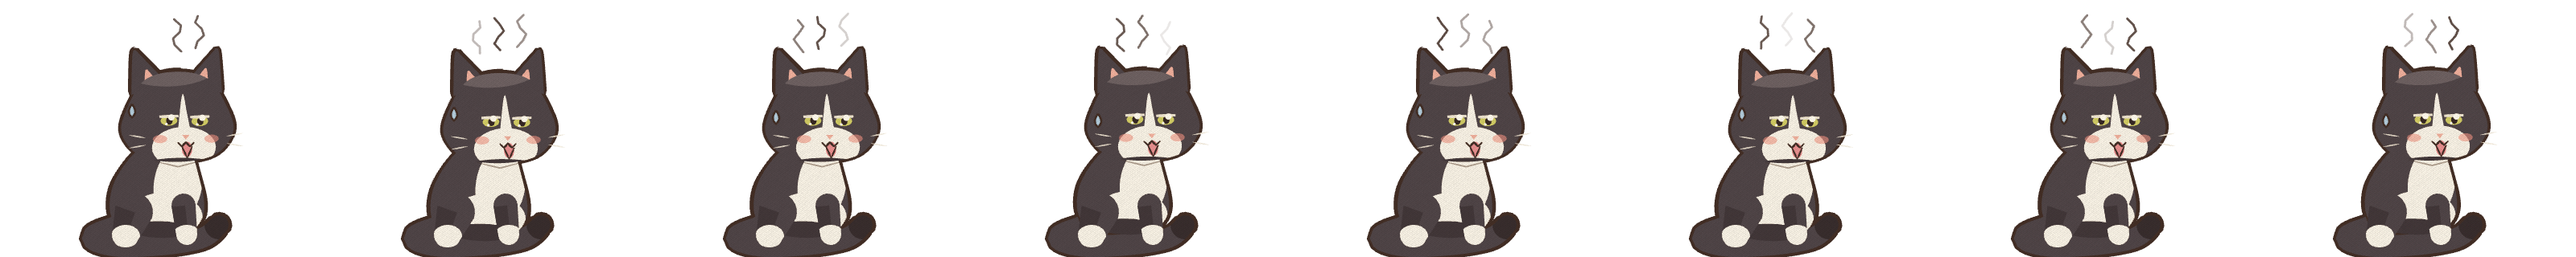
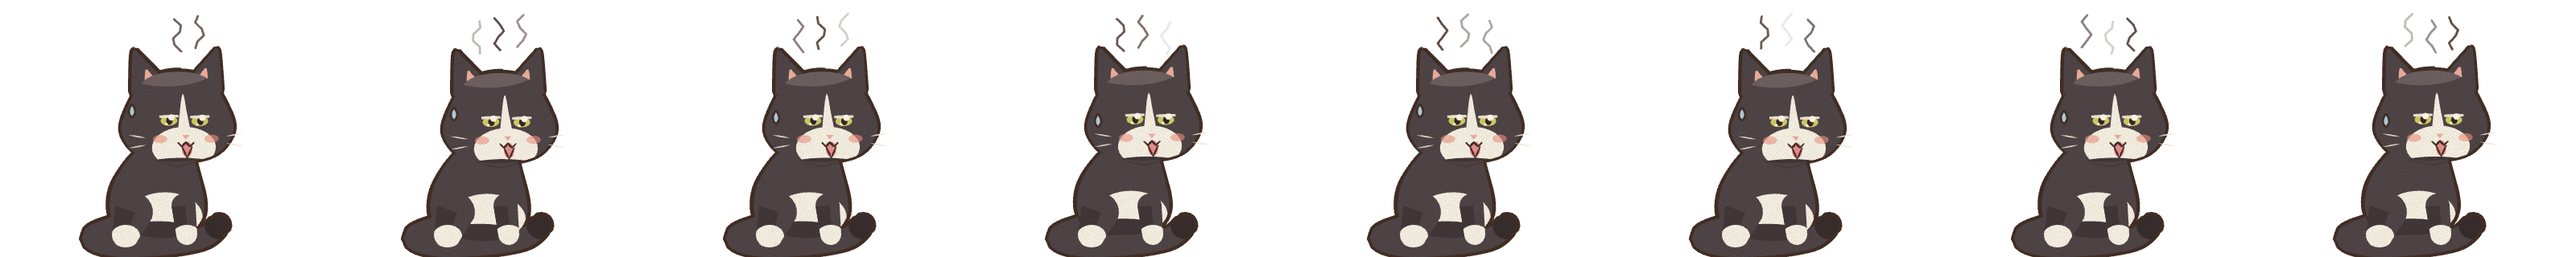
Maestra's white matches Maestro's cream; the laser game plays every time, for both
The bib on her chest is gone. The laser strip now reaches the screen's bottom edge (the
Dock counts), counts the wiggle from the moment the cursor enters it, wakes a napping
cat, brings a far one running, and lets them pounce again and again while it wiggles.
Maestra no longer ignores half of it.

diff --git a/guardia-app/Sources/Pet.swift b/guardia-app/Sources/Pet.swift
@@ -422,8 +422,8 @@ final class PetController {
         return true
     }
 
-    private func leap(to: CGPoint, kind: Jump, dur: Double? = nil) {
-        facing = to.x >= pos.x ? 1 : -1
+    private func leap(to: CGPoint, kind: Jump, dur: Double? = nil, face: CGFloat? = nil) {
+        facing = face ?? (to.x >= pos.x ? 1 : -1)
         let dist = Double(hypot(to.x - pos.x, to.y - pos.y))
         napping = false
         afterWalk = nil
@@ -529,7 +529,7 @@ final class PetController {
             if lift == 0 { liftV = 0 }
             if Date() > until && lift == 0 { set(.idle, for: 3) }
         case .stalk:
-            let m = NSEvent.mouseLocation
+            let m = cursor
             facing = m.x >= pos.x + size.width / 2 ? 1 : -1
             if Date() > until { pounceAt(m.x) }
         case .dangle:
@@ -589,7 +589,8 @@ final class PetController {
         place()
         hitTest()
         // asleep, one tick per breathing frame is enough to notice the first key or mouse move
-        schedule(state == .leap ? 1.0 / 40 : [.walk, .dangle, .fall, .swipe, .startle, .stalk].contains(state) ? 1.0 / 20 : state == .sleep ? 1.0 / 4 : 1.0 / 10)
+        // and while the cursor plays at the bottom near him, 20 Hz to follow it
+        schedule(state == .leap ? 1.0 / 40 : [.walk, .dangle, .fall, .swipe, .startle, .stalk].contains(state) || laserNear ? 1.0 / 20 : state == .sleep ? 1.0 / 4 : 1.0 / 10)
     }
 
     private func onKey() {
@@ -652,12 +653,12 @@ final class PetController {
     }
 
     private func feel(now: Double, dt: Double) {
-        let m = NSEvent.mouseLocation
+        let m = cursor
         defer { lastMouse = m }
-        // petting: the cursor stroking over him, no button down
+        // petting: the cursor stroking slowly over him, no button down (a quick wiggle is the laser)
         let over = bodyRect.contains(m) && NSEvent.pressedMouseButtons == 0 && grab == nil
         let moved = hypot(m.x - lastMouse.x, m.y - lastMouse.y)
-        if over && moved > 0.5 { stroked += moved; lastStroke = now }
+        if over && moved > 0.5 && moved < 500 * CGFloat(max(dt, 0.02)) { stroked += moved; lastStroke = now }
         if now - lastStroke < 0.6 { petTime += dt } else if now - lastStroke > 1.5 { stroked = 0; petTime = 0 }
         if stroked > 80 && now - lastStroke < 0.15 {
             if state == .purr && petTime > (cat.lazy ? 12 : 7) {
@@ -669,35 +670,78 @@ final class PetController {
             if [.idle, .walk, .tap].contains(state) && afterWalk == nil { set(.purr, for: 1.6) }
             else if state == .purr { until = Date().addingTimeInterval(1.6) }
         }
+        laser(now: now, m: m)
+    }
 
-        // the laser game: the cursor wiggling to and fro near the floor in front of him
+    // The laser game. The strip at the bottom of the screen, from its very edge (over the Dock
+    // too) to 160 pt above the floor, is the floor the "dot" runs on. The cursor moving there
+    // near a cat: it turns to look. Wiggling, three turns since it came into the strip: the cat
+    // crouches and pounces with its paw on it, and again as long as it keeps wiggling. A cat
+    // farther off runs over first; a napping one wakes for it. Both play; she is a little slower.
+    private var laserNear = false
+    // guardia://pet/try/laser: a pretend cursor wiggling in front of him for a moment
+    private var dot: CGPoint?
+    private var cursor: CGPoint { dot ?? NSEvent.mouseLocation }
+    func playLaser() {
+        guard visible, perch == nil else { return }
+        let x0 = pos.x + size.width / 2 + facing * 150, y = groundOrigin() + feet + 30, t0 = CACurrentMediaTime()
+        Timer.scheduledTimer(withTimeInterval: 1.0 / 30, repeats: true) { [weak self] t in
+            let e = CACurrentMediaTime() - t0
+            guard let self, e < 2.6 else { t.invalidate(); self?.dot = nil; return }
+            self.dot = CGPoint(x: x0 + 70 * sin(e * 9), y: y)
+        }
+    }
+
+    private func laser(now: Double, m: CGPoint) {
+        let bottom = screen.frame.minY - 1, top = groundOrigin() + feet + 160
+        let inStrip = { (p: CGPoint) in p.y >= bottom && p.y < top }
         trail.append((now, m))
-        trail.removeAll { now - $0.t > 1.2 }
-        guard now > playAgain, [.idle, .walk].contains(state), perch == nil, afterWalk == nil, alerting == nil, !begging, grab == nil,
-              !mood.lowBattery, !over, trail.count > 6 else { return }
-        let floorY = groundOrigin() + feet
-        guard abs(m.x - (pos.x + size.width / 2)) < 450, trail.allSatisfy({ $0.p.y < floorY + 150 && $0.p.y > floorY - 30 }) else { return }
+        trail.removeAll { now - $0.t > 1.5 }
+        let dist = abs(m.x - (pos.x + size.width / 2))
+        laserNear = perch == nil && inStrip(m) && dist < 800
+        guard laserNear, alerting == nil, !begging, grab == nil, !mood.lowBattery else { return }
+        let resting = [.idle, .tap, .purr].contains(state) && afterWalk == nil
+        let moving = trail.count >= 2 && hypot(m.x - trail[trail.count - 2].p.x, m.y - trail[trail.count - 2].p.y) > 2
+        // it caught his eye
+        if resting && moving && dist > 40 && dist < 420 { facing = m.x >= pos.x + size.width / 2 ? 1 : -1 }
+        guard now > playAgain, resting || (state == .walk && afterWalk == nil) || (state == .sleep && napping) else { return }
+        // the wiggle: the latest run of positions inside the strip
+        var run = 0
+        for t in trail.reversed() { if inStrip(t.p) { run += 1 } else { break } }
+        let recent = Array(trail.suffix(run))
+        guard recent.count >= 6, PetController.wiggles(recent.map(\.p)) else { return }
+        napping = false
+        if dist > 420 {
+            // too far to leap: run over, and look again on the way
+            go(to: m.x - size.width / 2, speed: cat.lazy ? 1.8 : 2.6)
+            playAgain = now + 0.4
+            return
+        }
+        facing = m.x >= pos.x + size.width / 2 ? 1 : -1
+        set(.stalk, for: cat.lazy ? 0.9 : 0.55)
+        playAgain = now + 2.5
+    }
+
+    /// A wiggle: three turns to and fro, 200 pt of sideways travel.
+    static func wiggles(_ pts: [CGPoint]) -> Bool {
         var turns = 0, path: CGFloat = 0, lastDir: CGFloat = 0
-        for i in 1..<trail.count {
-            let dx = trail[i].p.x - trail[i - 1].p.x
+        for (a, b) in zip(pts, pts.dropFirst()) {
+            let dx = b.x - a.x
             path += abs(dx)
-            if abs(dx) > 3 {
+            if abs(dx) > 2 {
                 let d: CGFloat = dx > 0 ? 1 : -1
                 if lastDir != 0 && d != lastDir { turns += 1 }
                 lastDir = d
             }
         }
-        guard turns >= 3, path > 240 else { return }
-        playAgain = now + (cat.lazy ? 20 : 8)
-        // she can't always be bothered
-        if cat.lazy && Double.random(in: 0...1) < 0.5 { return }
-        facing = m.x >= pos.x + size.width / 2 ? 1 : -1
-        set(.stalk, for: cat.lazy ? 1.6 : 1.1)
+        return turns >= 3 && path > 200
     }
 
+    // the paw (about x 150 of the cell, facing right) lands on the dot
     private func pounceAt(_ x: CGFloat) {
-        let tx = min(max(x - size.width / 2, bounds.lowerBound), bounds.upperBound)
-        leap(to: CGPoint(x: tx, y: groundOrigin()), kind: .laser, dur: 0.42)
+        let paw = (facing > 0 ? 150 : cell.width - 150) * scale
+        let tx = min(max(x - paw, bounds.lowerBound), bounds.upperBound)
+        leap(to: CGPoint(x: tx, y: groundOrigin()), kind: .laser, dur: 0.42, face: facing)
     }
 
     private func runAway() {

diff --git a/pet/cat.js b/pet/cat.js
@@ -1,5 +1,5 @@
 // Maestro and Maestra, chibi edition, drawn in the room's ink: he a round orange tabby, she a
-// tuxedo (black, with a white bib, socks, muzzle and a blaze between the eyes).
+// tuxedo (black, white where he is cream: belly, socks, muzzle; and a blaze between the eyes).
 // The whole cat is one silhouette: every part is inked first with a wide stroke, then all parts
 // are filled on top, so only the outer contour keeps its ink and nothing looks bolted on.
 import { catmull, stroke, setInk } from '../wallpaper/src/ink.js';
@@ -161,11 +161,6 @@ function buildParts(pose) {
         fill(ctx, ellipse(add(c, rot([b.rx * 0.15, b.ry * 0.62], b.a ?? 0)), b.rx * 0.78, b.ry * 0.5, b.a ?? 0), COL.cream);
         fill(ctx, ellipse(add(c, rot([0, b.ry * 1.25], b.a ?? 0)), b.rx * 1.3, b.ry * 0.55, b.a ?? 0), COL.furShade);
         fill(ctx, ellipse(add(c, rot([-b.rx * 0.05, -b.ry * 1.18], b.a ?? 0)), b.rx * 1.05, b.ry * 0.5, b.a ?? 0), COL.furLit);
-        // a tuxedo's white shirt front, under the chin
-        if (COL.coat === 'tuxedo') {
-          const bib = b.shape === 'sit' ? [0.42, -0.05, 0.5, 0.78] : b.shape === 'loaf' ? [0.62, 0.15, 0.36, 0.7] : [0.66, 0.12, 0.38, 0.66];
-          fill(ctx, ellipse(add(c, rot([bib[0] * b.rx, bib[1] * b.ry], b.a ?? 0)), bib[2] * b.rx, bib[3] * b.ry, (b.a ?? 0) + 0.15), COL.cream);
-        }
         // three soft tabby stripes over the back
         for (const k of COL.coat === 'tabby' ? [-0.5, -0.12, 0.26] : []) {
           const top = add(c, rot([k * b.rx, -b.ry * 1.05], b.a ?? 0));

diff --git a/guardia-app/Sources/Household.swift b/guardia-app/Sources/Household.swift
@@ -140,7 +140,7 @@ final class Household {
         quietUntil = Date().addingTimeInterval(90)
     }
 
-    /// guardia://pet/try/<what>: show one now (thunder, claude, meal, feed, chase, groom, swat, plug, climb).
+    /// guardia://pet/try/<what>: show one now (thunder, claude, meal, feed, chase, groom, swat, plug, climb, laser).
     func show(_ what: String) {
         switch what {
         case "thunder": thunder()
@@ -148,6 +148,7 @@ final class Household {
         case "meal": maestro.askForFood(); maestra.askForFood()
         case "feed": maestro.feedNow(); maestra.feedNow()
         case "climb": maestro.climbNow()
+        case "laser": maestro.playLaser(); maestra.playLaser()
         case "chase": chase()
         case "groom": groom()
         case "swat": maestra.nap(for: 60); swatTail()

diff --git a/docs/HANDOFF.md b/docs/HANDOFF.md
@@ -357,7 +357,7 @@ The user found the room too full and the widgets too small to read. Measured on 
 The user asked for more interactions and a second cat. They agreed to every idea offered, named her **Maestra** (instead of the suggested "Tinta"), and chose a tuxedo coat, living on the desktop with Maestro.
 
 ### Art (`pet/cat.js`, `pet/poses.js`, `scripts/render-assets.mjs`)
-- One set of poses, two coats: `COATS.maestro` (orange tabby) and `COATS.maestra` (tuxedo: charcoal fur, white bib, socks, muzzle, and a blaze between the eyes; no stripes).
+- One set of poses, two coats: `COATS.maestro` (orange tabby) and `COATS.maestra` (tuxedo: charcoal fur, white where he is cream (belly, socks, muzzle), a blaze between the eyes, no stripes). A white bib on her chest was removed at the user's request: her white should match his cream.
 - Dark eyes and ink lines vanish on black fur. So Maestra's eyes get a yellow-green iris with a tall pupil, and her lids, closed eyes and whiskers use light `line`/`whisker` colours.
 - New eye modes: `wide` and `squint`. New mouth: `tongue`.
 - Twelve new animations:
@@ -388,7 +388,15 @@ The user asked for more interactions and a second cat. They agreed to every idea
   - A click feeds (`eat`, then `purr`). While begging or alerting, the whole panel takes the click.
 - **Cursor:**
   - Petting is the cursor moving over the body rect with no button down. 80 pt of stroking gives a purr; too long gives a `bite`, then `runAway()`.
-  - The laser game watches the last 1.2 s of cursor positions. It needs ≥ 3 x-reversals and ≥ 240 pt of travel, inside a band from 30 pt below the floor line to 150 pt above it, within 450 pt of the cat. Then comes `stalk`, then a 0.42 s leap to the cursor's x, then a swipe. The cooldown is 8 s, 20 s for her, and she ignores half the triggers.
+  - The laser game, as revised the same day: the user found it hit-and-miss, and Maestra never played.
+    - The old rule needed the cursor inside a band from 30 pt *below* the Dock's top to 150 pt above it, so the Dock itself didn't count. All 1.2 s of samples had to be in the band. The cat had to be idle or walking (not tapping, purring or napping). The cooldown was 8 s, and she ignored half the triggers at random with a 20 s cooldown.
+    - Now the strip runs from the screen's bottom edge, the Dock included, to 160 pt above the floor line, within 800 pt of the cat. Only the latest run of samples inside the strip counts, at most 1.5 s.
+    - `PetController.wiggles`: ≥ 3 x-reversals and ≥ 200 pt of travel. Tested against sample paths: deliberate wiggles pass; jitter, a pass along the Dock and back once, and a dive to the Dock don't.
+    - Idle, tapping, purring, an ordinary walk and a nap may all turn into play. A cat more than 420 pt away runs over first.
+    - The cat stalks 0.55 s (her 0.9 s), then leaps 0.42 s and lands with the paw (cell x 150) on the cursor (`leap(face:)` keeps the facing). It is ready again 2.5 s after the stalk began, so a steady wiggle gets pounce after pounce.
+    - While the cursor is in the strip near a cat, the tick runs at 20 Hz (`laserNear`), and a resting cat turns to face a moving cursor.
+    - Petting only counts slow strokes (< 500 pt/s), so a wiggle over the body is the laser.
+    - `guardia://pet/try/laser` wiggles a pretend cursor (`dot`) in front of each cat for 2.6 s through the same code. Live: both stalked, he pounced, she followed, and he pounced again.
 - **Perch:**
   - `decide()` sometimes (6%) leaps onto the front window of the frontmost app. It must be at least 320×200, with its top below the screen top minus the cat's height.
   - While perched, `groundOrigin()`/`bounds` come from the window's top edge.
@@ -415,7 +423,7 @@ The user asked for more interactions and a second cat. They agreed to every idea
 - Thunder: startle, then back to `loaf` (it was raining).
 - `try/claude`: Maestro `meow`, balloon "meong! DESKTOP: giliranmu". Its window sat exactly over his head (x 944 = 880 + 125 × 0.56 − 6).
 - `try/meal`: both walked to the middle begging. `try/feed`: `eat` with "nyam nyam", then rest; `meal.*` stored.
-- Not verified on screen, because the agent can't move the user's cursor and the user was in full-screen Spaces: the laser game, petting, perching, and the pair games' looks. They are driven by the same state machine; `guardia://pet/try/…` shows each.
+- Not verified on screen, because the agent can't move the user's cursor and the user was mostly in full-screen Spaces: petting, perching, and the pair games' looks. They are driven by the same state machine; `guardia://pet/try/…` shows each. (The laser was verified later with `try/laser`, see above.)
 
 ## Tools and gotchas
 

diff --git a/README.md b/README.md
@@ -37,7 +37,7 @@ Semua warna berasal dari satu daftar material: [`design/tokens.json`](design/tok
 - Saat ada jendela yang dimaksimalkan atau aplikasi layar penuh, island yang sedang diam turun ke belakang supaya tidak menutupi judul jendela. Island maju lagi kalau ada lagu baru, notifikasi, alarm, atau timer selesai, atau saat kamu memanggilnya (⌃Space, tepi atas).
 
 **Maestro dan Maestra**
-- Maestro oren dan sibuk. Maestra tuxedo, sedikit lebih kecil, dan pemalas: lebih cepat tidur, suka tidur siang (mengetik tidak membangunkannya), jarang jalan, dan tidak ikut menepuk-nepuk.
+- Maestro oren dan sibuk. Maestra tuxedo (hitam, putih di tempat yang sama dengan krem Maestro, plus garis putih di dahi), sedikit lebih kecil, dan pemalas: lebih cepat tidur, suka tidur siang (mengetik tidak membangunkannya), jarang jalan, dan tidak ikut menepuk-nepuk.
 - Di aplikasi layar penuh mereka disembunyikan, kecuali di Chrome: di sana mereka tetap menemani (Maestro menjaga tab saat mode fokus) sambil berjalan di dasar layar, karena Dock sedang tersembunyi.
 - Klik untuk mengelus (mendengkur). Seret untuk mengangkat, lalu lepas dan dia jatuh ke lantai.
 - Saat kamu mengetik, Maestro menepuk-nepuk. Kalau Mac tidak disentuh (Maestra 1 menit, Maestro 2 menit), mereka tidur, lalu bangun sambil meregang.
@@ -53,7 +53,7 @@ Mereka ikut yang sedang terjadi di Mac:
 - **Jam makan** (sekitar jam 12 dan jam 19, saat kamu di depan Mac): mereka duduk di samping mangkuk enamel dan bilang *"lapar…"*. Klik kucingnya untuk memberi makan. Kalau 25 menit tidak diberi, mereka menyerah sampai jam makan berikutnya.
 
 Main denganmu:
-- **Laser:** goyang-goyangkan kursor ke kiri-kanan di dekat lantai di depan mereka. Mereka mengintai sambil menggoyangkan pantat, lalu menerkam kursornya.
+- **Laser:** bagian bawah layar adalah lantainya, dari tepi paling bawah (di atas Dock juga boleh) sampai kira-kira 160 pt di atas Dock. Gerakkan kursor di situ dekat mereka dan mereka menoleh ke kursor. Goyangkan ke kiri-kanan (tiga kali bolak-balik) dan mereka mengintai sambil menggoyangkan pantat, lalu menerkam dengan kaki mendarat di kursor. Selama kursor terus bergoyang, mereka terus menerkam. Kucing yang jauh berlari mendekat dulu. Maestra ikut main, sedikit lebih lambat, dan laser membangunkannya dari tidur siang.
 - **Elus:** usap kursor pelan di atas badannya (tanpa klik) dan dia mendengkur. Kelamaan (Maestro ±7 detik, Maestra ±12 detik), dia menggigit pelan lalu kabur.
 - **Naik jendela:** sesekali mereka melompat ke atas jendela yang sedang di depan, lalu duduk atau tidur di situ. Kalau jendelanya digeser, ditutup, atau tertutup jendela lain, mereka turun.
 
@@ -91,7 +91,7 @@ open -g guardia://rest/5          # istirahat 5 menit
 open -g guardia://stop            # hentikan timer dan mode fokus
 open -g guardia://pet/come        # panggil Maestro (pet/on, pet/off)
 open -g guardia://maestra/come    # panggil Maestra (maestra/on, maestra/off)
-open -g guardia://pet/try/chase   # coba sekarang: thunder, claude, meal, feed, chase, groom, swat, plug, climb
+open -g guardia://pet/try/laser   # coba sekarang: laser, thunder, claude, meal, feed, chase, groom, swat, plug, climb
 open -g guardia://wallpaper/off   # bekukan wallpaper jadi gambar diam (wallpaper/on untuk hidup lagi)
 open -g guardia://playpause       # play / pause musik
 open -g guardia://status          # tulis keadaan app ke ~/.guardia/status.json
